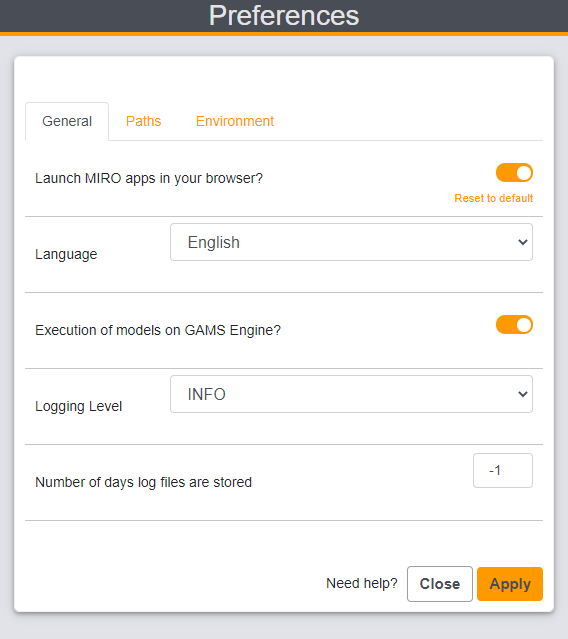
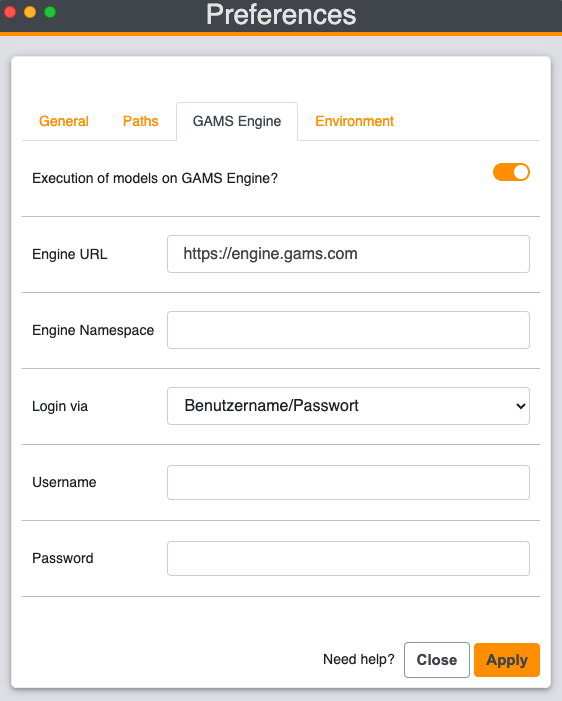
[Doc] Move login screen from MIRO to Launcher

diff --git a/doc/deployment.html b/doc/deployment.html
@@ -923,19 +923,6 @@ inc/inc2.inc
                           </tr>
                           <tr>
                             <td></td>
-                            <td>Execution of models on GAMS Engine?</td>
-                            <td>
-                              If enabled, GAMS jobs can be
-                              <a href="./server.html">run in the cloud</a>
-                              instead of on the local machine. For this purpose
-                              the server information must be specified in the
-                              MIRO application. This option can also be enabled
-                              by setting the environment variable
-                              <i>MIRO_REMOTE_EXEC</i> to true.
-                            </td>
-                          </tr>
-                          <tr>
-                            <td></td>
                             <td>Logging level</td>
                             <td>
                               Determines the logging scope. <i>TRACE</i> = very
@@ -992,6 +979,53 @@ inc/inc2.inc
                               or later) is required for using GAMS MIRO. Since R
                               is bundled with MIRO on Windows and MacOS, this
                               option is only available on Linux systems.
+                            </td>
+                          </tr>
+                          <tr>
+                            <td><b>GAMS Engine</b></td>
+                            <td>Execution of models on GAMS Engine?</td>
+                            <td>
+                              If enabled, GAMS jobs will be
+                              <a href="./server.html">run in the cloud</a>
+                              instead of on the local machine.
+                            </td>
+                          </tr>
+                          <tr>
+                            <td></td>
+                            <td>Engine URL</td>
+                            <td>
+                              URL where GAMS Engine is hosted, e.g.
+                              <kbd>https://engine.gams.com</kbd>.
+                            </td>
+                          </tr>
+                          <tr>
+                            <td></td>
+                            <td>Namespace</td>
+                            <td>
+                              The <i>namespace</i> to solve the model in. Engine
+                              uses these namespaces to organize GAMS models.
+                              Your user account needs at least write and execute
+                              permissions on that namespace. Further information
+                              can be found
+                              <a
+                                href="https://www.gams.com/engine/administration.html#namespaces"
+                                >here</a
+                              >.
+                            </td>
+                          </tr>
+                          <tr>
+                            <td></td>
+                            <td>Login via</td>
+                            <td>
+                              Login method to use. Options supported by MIRO
+                              are: <i>Username/Password</i> for logging in with
+                              username and password, <i>JWT</i> for logging in
+                              with an authentication token (can e.g. be
+                              generated from the Engine UI) or using an
+                              <a
+                                href="https://www.gams.com/engine/administration.html#identity-providers"
+                                >LDAP/OAuth2/OIDC identity provider</a
+                              >.
                             </td>
                           </tr>
                         </tbody>

diff --git a/doc/server_general.html b/doc/server_general.html
@@ -469,10 +469,15 @@
                       >). To switch from running your optimization jobs on your
                       local machine to solving them in the cloud, open your MIRO
                       library, go to <i>Preferences</i> &rarr;
-                      <i>General</i> and check the "Execution of models on GAMS
-                      Engine" checkbox. This setting affects all deployed MIRO
-                      apps (started via the MIRO library) and all MIRO apps in
-                      development (started via GAMS Studio or the command line).
+                      <i>GAMS Engine</i> and check the "Execution of models on
+                      GAMS Engine" checkbox. This setting affects all deployed
+                      MIRO apps (started via the MIRO library) and all MIRO apps
+                      in development (started via GAMS Studio or the command
+                      line). A form opens in which you must enter the Engine URL
+                      (e.g. <kbd>https://engine.gams.com</kbd> if you are using
+                      Engine SaaS), an Engine namespace for which you have at
+                      least write and execute rights, as well as your login
+                      data.
                     </p>
                     <div class="section-block">
                       <img
